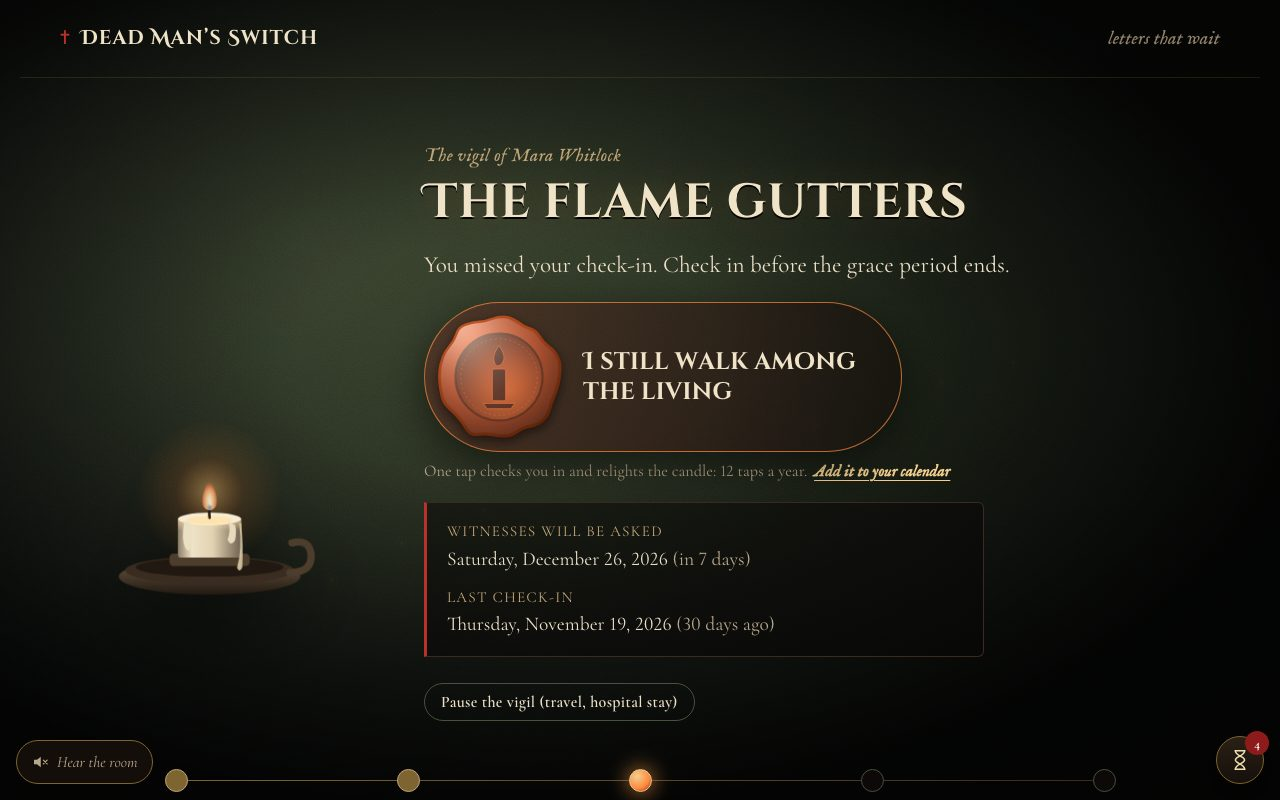
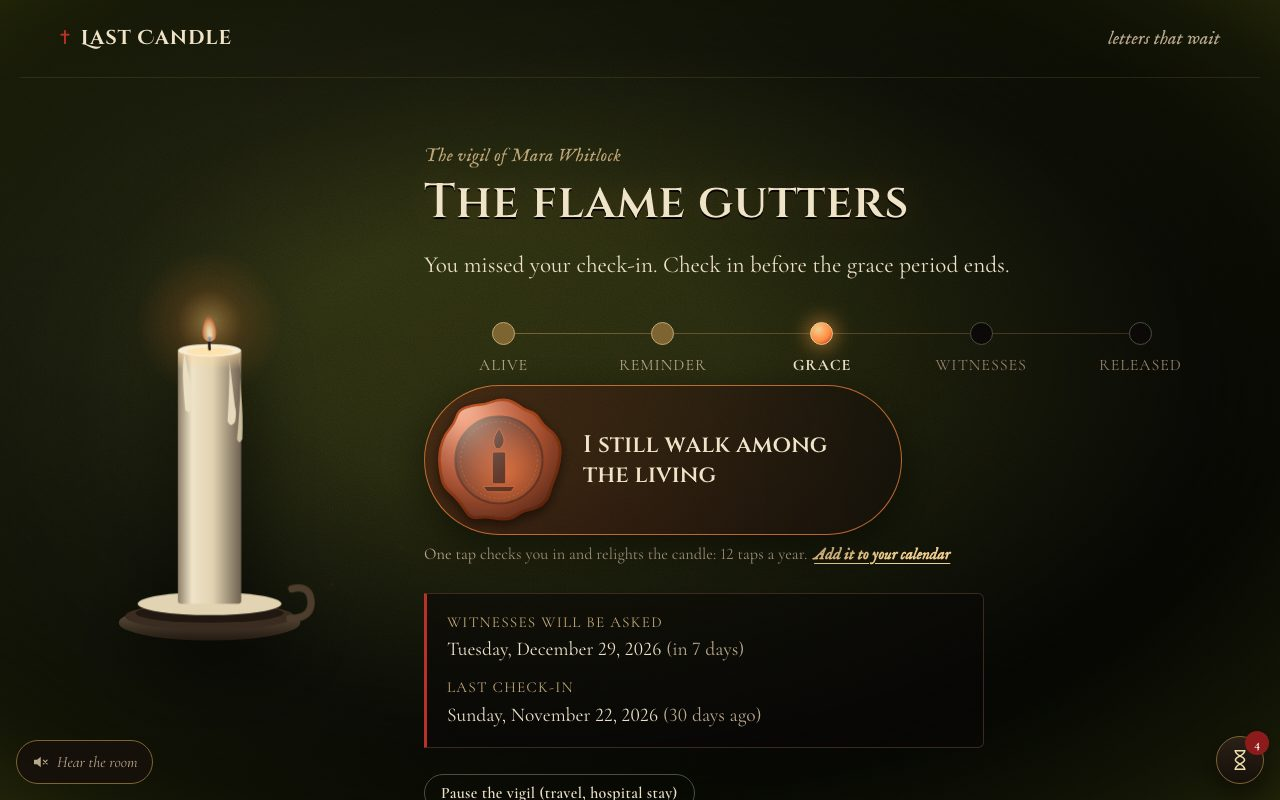
Recapture the README media for the new story and costume
The hero GIF now runs to the story's new ending, and the stills and the
social preview show the full-height candle with its smoke. The capture
script waits for the last caption and speeds the GIF up to keep it near
3 MB.

diff --git a/README.md b/README.md
@@ -17,9 +17,9 @@ The live demo runs entirely in your browser and keeps its data in this browser's
 
 [![CI](https://github.com/blackwingArtisan/dead-mans-switch/actions/workflows/ci.yml/badge.svg)](https://github.com/blackwingArtisan/dead-mans-switch/actions/workflows/ci.yml)
 
-![The whole story, hands-off: the candle burns, gutters in grace and goes out as the room dies with it; the witness confirms; the recipient breaks the seal and reads by the author's own candle.](docs/media/story.gif)
+![The whole story, hands-off: the candle burns, gutters in grace and goes out as the room dies with it; a witness stops a false alarm, then confirms; the recipients read by the author's own candle and light two candles back.](docs/media/story.gif)
 
-*The 60-second walk-through, as **Play the whole story** runs it: Mara's candle burns, a missed month turns the room green, a week later it goes out and her witness Silas confirms, and June breaks the seal and reads by Mara's own candle.*
+*A 7-second time-lapse of the story, as **Play the whole story** runs it in about 68 seconds: Mara's candle burns, a missed month turns the room green and the candle goes out, her witness Silas stops a false alarm, the second time he confirms, June brings her keepsake and reads by Mara's own candle, and June and Theo each light a candle back.*
 
 **Costume Contest: the candle is the state machine, and the whole room wears it.** Built for Kiroween 2026. Not an account handover: a letter, in your words, that nobody (not even us) can open until the people you trust agree you are gone.
 
